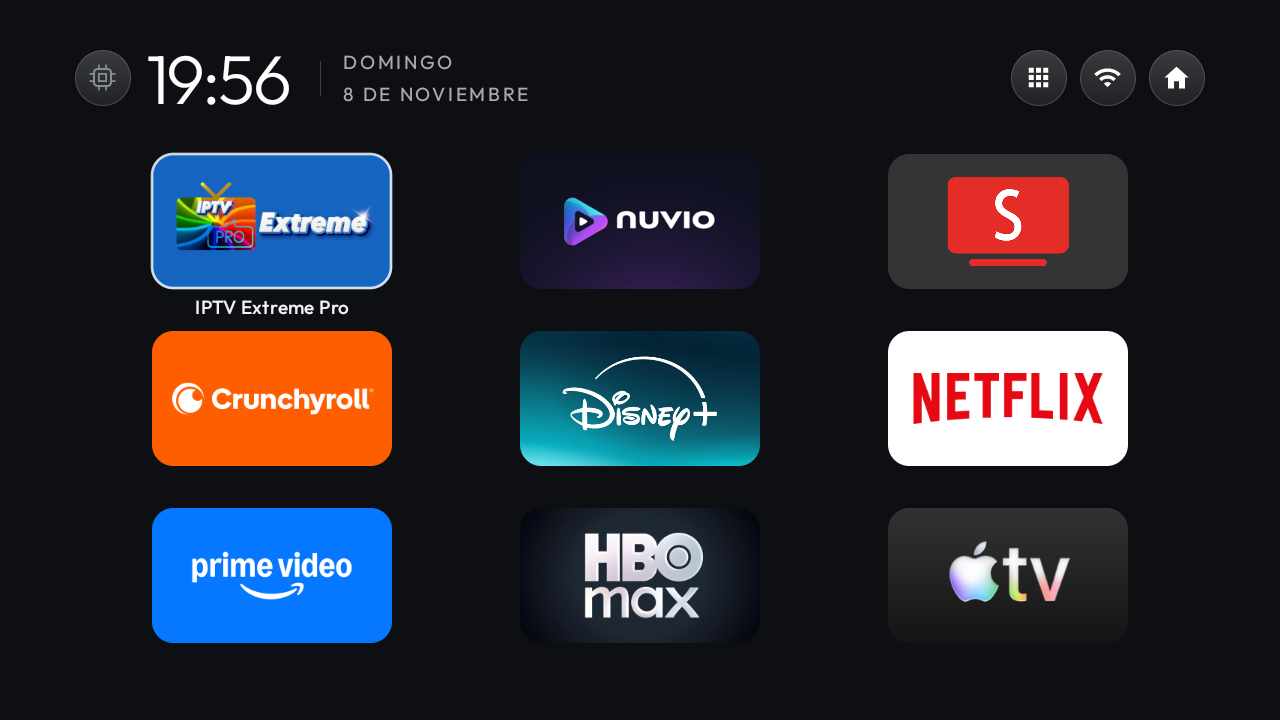
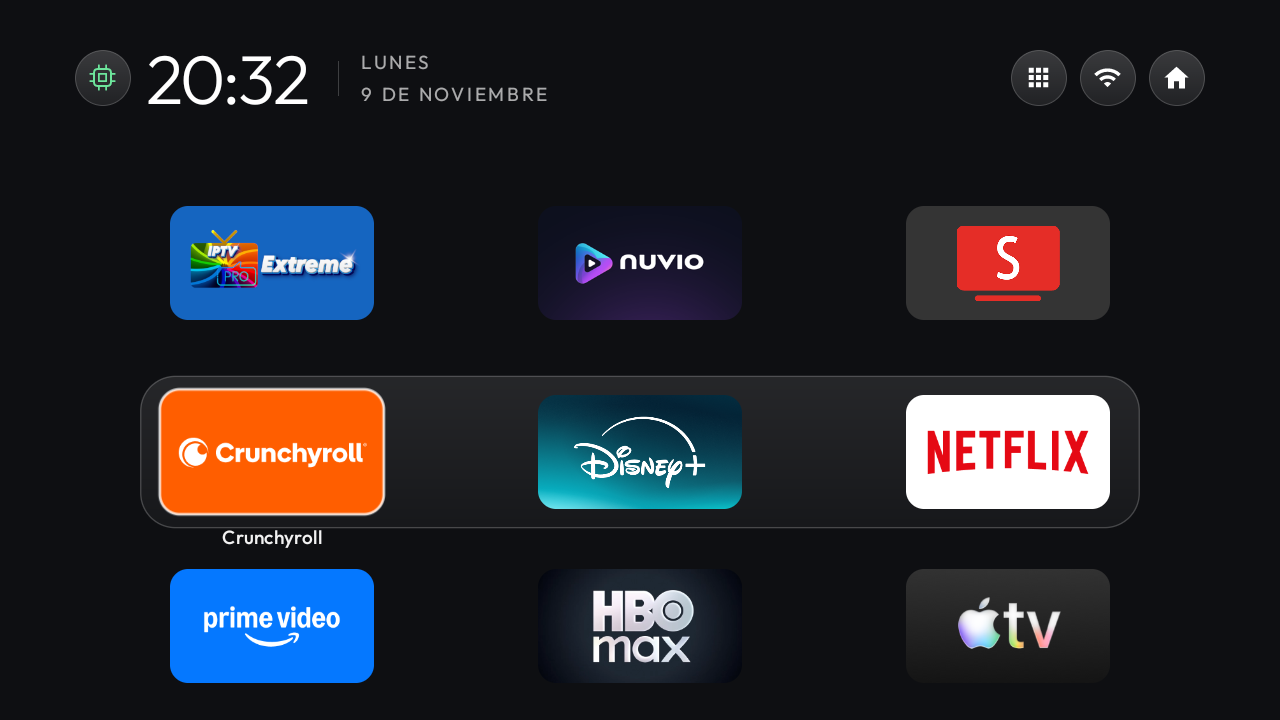
Documenta Streamer y Chromecast y actualiza el perfil Wanbo

diff --git a/perfiles/wanbo-cube-1/README.md b/perfiles/wanbo-cube-1/README.md
@@ -4,9 +4,11 @@ Perfil ligero de CleanYourTV para el proyector Wanbo Cube 1. La [ficha de Wanbo]
 
 La unidad identificada usa una plataforma Amlogic de Skyworth, producto `HP4703-Skyworth`, dispositivo `BOS`. Tiene 1 GB de RAM, GPU Mali-G31, Android TV 11 de 32 bits (API 30) y salida de 1280 × 720. La compilación observada es `RTT0.210829.002.P2.1.6_20240930`. Comprueba estos datos antes de reutilizar los ajustes en otro proyector.
 
-El [tema](config.json) usa una cuadrícula compacta, un borde fijo para el foco y el cajón de apps junto al Wi-Fi. Apaga las animaciones del launcher, el fondo de imagen, el resplandor y los módulos. AIDA64 y Play Store están en el cajón. El firmware probado deja la entrada HDMI fuera del menú de Android. Se selecciona con el mando del proyector.
+El [tema actualizado](config.json) muestra tres filas y una banda de cristal que se desplaza a la fila seleccionada. Usa animaciones básicas y mantiene apagados los efectos avanzados, el fondo de imagen, el resplandor y los módulos. El cajón queda a la izquierda del Wi-Fi y reúne Button Mapper, ObtainX, AIDA64 y Play Store. Las nueve apps de Inicio no se duplican en el cajón. El acceso de Ajustes del proyector se mantiene en el mando.
 
-![CleanYourTV con nueve aplicaciones en el Wanbo Cube 1](inicio.png)
+![Captura del Wanbo Cube 1 con la banda de cristal en la segunda fila de CleanYourTV](inicio.png)
+
+La captura corresponde al perfil visual probado en Android 14. Para que se vea el desplazamiento de la banda en esta unidad, se dejó `animator_duration_scale` en `0.5`. Los efectos avanzados siguen desactivados.
 
 | Fila | Izquierda | Centro | Derecha |
 | --- | --- | --- | --- |
@@ -35,7 +37,7 @@ adb -s "<dispositivo>" shell pm list packages -d --user 0
 1. Guarda el estado inicial fuera del repositorio. Mide la apertura de Inicio y de una app de prueba, la RAM disponible y el espacio libre. Aplica el tema y repite las mediciones en las mismas condiciones.
 2. Instala CleanYourTV y aplica este tema con la [guía del proyecto](../../README.md#instalar-el-launcher-y-el-tema). Prueba CleanYourTV como app antes de asignarlo al botón Inicio. Comprueba el mando, el acceso a ajustes, el enfoque, la corrección trapezoidal, HDMI, Wi-Fi, audio y la reproducción protegida.
 3. Revisa las apps opcionales y sus procesos en el firmware detectado. Registra el estado original de cada paquete y comprueba el equipo tras cada cambio. Consulta la [guía de reversión](../../INSTALACION-AVANZADA.md).
-4. Comprueba el arranque completo. El perfil de este proyector deja el monitor de reposo apagado para evitar un proceso adicional en segundo plano.
+4. Comprueba el arranque completo. En la unidad actualizada a Android 14 se verificó que el chip puede reactivar el monitor de reposo y quedar verde. El monitor es opcional y se reactiva después de un reinicio completo si lo necesitas.
 
 ## Cambios probados
 
@@ -56,7 +58,7 @@ Tras probar el nuevo Inicio, se quitaron para el usuario 0 los paquetes de la ta
 
 Para recuperar una app de sistema, ejecuta `adb -s "<dispositivo>" shell cmd package install-existing --user 0 <paquete>` y `adb -s "<dispositivo>" shell pm default-state --user 0 <paquete>`. Para restaurar el Inicio original, recupera primero el launcher y sus recomendaciones, luego selecciona `com.google.android.tvlauncher/.MainActivity`. Downloader se puede reinstalar desde Play Store. El asistente de configuración, Play Services, el receptor Cast, el emparejamiento Bluetooth y los servicios del proyector se dejaron habilitados.
 
-Las escalas `window_animation_scale`, `transition_animation_scale` y `animator_duration_scale` pasaron de 0,5 a 0. El salvapantallas de Android se desactivó con `settings put secure screensaver_enabled 0`. Guarda tus valores originales con `settings get` antes de aplicar estos cambios para poder recuperarlos.
+Durante la medición inicial, las tres escalas de animación pasaron de 0,5 a 0. En el perfil visual posterior se recuperó `animator_duration_scale=0.5` y se conservaron las transiciones de ventanas y actividades en 0. El salvapantallas de Android se desactivó con `settings put secure screensaver_enabled 0`. Guarda tus valores originales con `settings get` antes de aplicar estos cambios para poder recuperarlos.
 
 ## Mantener la pantalla encendida
 

diff --git a/perfiles/chromecast-google-tv-4k/README.md b/perfiles/chromecast-google-tv-4k/README.md
@@ -1,0 +1,29 @@
+# Chromecast con Google TV (4K)
+
+La unidad de prueba se identificó como `sabrina` y ejecutaba Android 14, compilación `UTTC.250917.004.14193937`. Google indica 2 GB de RAM, 8 GB de almacenamiento, salida hasta 4K y Wi-Fi ac. [Comparativa oficial de Google](https://store.google.com/es/magazine/google_tv_streamer_compare?hl=es)
+
+## Configuración probada
+
+Se instaló la misma compilación de CleanYourTV que en el [Google TV Streamer](../google-tv-streamer-4k/README.md) y se verificó el tema de tres filas. El [tema reutilizable](../../config.json) permite elegir las apps de Inicio y reservar el cajón para utilidades como AIDA64 y X-plore.
+
+En este firmware se verificó que CleanYourTV resolvía Inicio tras el cambio al launcher nativo. La operación requirió comprobar primero la red Wi-Fi guardada y deshabilitar el Inicio original y SetupWraith. Aplica ese cambio solo tras probar el launcher, el mando y los servicios que utilices. Netflix permaneció disponible. Cast puede verse afectado tras el reinicio y merece una prueba aparte si lo usas. [Instalación y reversión](../../INSTALACION-AVANZADA.md)
+
+Se desactivaron para el usuario 0 Feedback, Health Connect, AdServices, Downloader, Play Juegos y Play Películas en la unidad probada. La lista es un registro de la prueba. Comprueba qué paquetes existen y guarda su estado antes de aplicar cambios en otro equipo.
+
+## Mediciones
+
+| Medida con AIDA64 2.26 y CleanYourTV | Resultado |
+| --- | ---: |
+| Apertura de AIDA64 en frío, mediana de 5 | 723 ms |
+| Vuelta de AIDA64 a Inicio, mediana de 5 | 146 ms |
+| Apertura de Inicio en frío, mediana de 3 | 595 ms |
+| RAM disponible al tomar la muestra | 878.600 KiB |
+| Espacio libre en `/data` al tomar la muestra | 815 MiB aprox. |
+
+Los tiempos son `WaitTime` de Android. Las vueltas a Inicio fueron 1041, 116, 146, 136 y 218 ms. La muestra lenta quedó reflejada para que la mediana no oculte la variación observada. La [ficha del Streamer](../google-tv-streamer-4k/README.md#mediciones) recoge las mismas pruebas en ese dispositivo.
+
+## Reposo, reinicio y ObtainX
+
+Se probó el reinicio y el chip de limpieza. En la unidad probada, la depuración inalámbrica se desactivó después de reiniciar y hubo que volver a encenderla con el dispositivo en la Wi-Fi correcta. Para preparar el monitor, usa el modo `--experimental` del [procedimiento de reposo](../../README.md#activar-la-limpieza-en-reposo) y autoriza al propio dispositivo cuando el chip lo solicite.
+
+Se añadieron en ObtainX las fuentes de Nuvio, SmartTube e IPTV Extreme Pro, con comprobaciones cada seis horas. Android registró el trabajo en segundo plano. La configuración se verificó antes de que hubiera una nueva versión que permitiera probar el siguiente ciclo de instalación.

diff --git a/perfiles/google-tv-streamer-4k/README.md b/perfiles/google-tv-streamer-4k/README.md
@@ -1,0 +1,29 @@
+# Google TV Streamer (4K)
+
+La unidad de prueba se identificó como `kirkwood` y ejecutaba Android 14, compilación `UTTK.260317.003`. Google especifica 4 GB de RAM, 32 GB de almacenamiento, salida hasta 4K HDR a 60 Hz, Wi-Fi ac y Ethernet gigabit. [Ficha de Google](https://store.google.com/es/product/google_tv_streamer_specs?hl=es)
+
+![Inicio de CleanYourTV en el Google TV Streamer con el cajón, las tres filas y la banda de cristal](../../despues.png)
+
+## Configuración probada
+
+Se usó el [tema de tres columnas](../../config.json) con la banda de cristal siguiendo la fila seleccionada, el cajón a la izquierda del Wi-Fi y el chip de limpieza junto al reloj. AIDA64, X-plore y Button Mapper se dejaron como utilidades. Se comprobó Inicio nativo con el mando, el volumen y los accesos habituales.
+
+Para repetir la instalación, sigue la [guía del launcher y del tema](../../README.md#instalar-el-launcher-y-el-tema). El cambio a Inicio nativo en el firmware probado incluyó desactivar el launcher de Google y SetupWraith. Es una operación opcional: guarda el estado inicial, comprueba quién creó la red Wi-Fi y verifica Cast si lo utilizas. La [guía de reversión](../../INSTALACION-AVANZADA.md) explica cómo restaurar el Inicio original y los paquetes cambiados.
+
+## Mediciones
+
+| Medida con AIDA64 2.26 y CleanYourTV | Resultado |
+| --- | ---: |
+| Apertura de AIDA64 en frío, mediana de 5 | 659 ms |
+| Vuelta de AIDA64 a Inicio, mediana de 5 | 202 ms |
+| Apertura de Inicio en frío, mediana de 3 | 568 ms |
+| RAM disponible al tomar la muestra | 1.873.020 KiB |
+| Espacio libre en `/data` al tomar la muestra | 20 GiB aprox. |
+
+Los tiempos son `WaitTime` de Android en una sesión de comparación con el [Chromecast 4K](../chromecast-google-tv-4k/README.md). La memoria y el espacio libre dependen de las apps instaladas y abiertas. Hay otra sesión en [MEDICIONES.md](../../MEDICIONES.md) que compara revisiones del launcher y registra los tiempos por fotograma.
+
+## Reposo y actualización de apps
+
+Tras un reinicio completo, el chip gris permitió reactivar el monitor desde el propio Streamer. En el siguiente reposo se cerraron cinco apps en caché y la RAM disponible aumentó aproximadamente 13 MB. El aviso apareció durante cinco segundos. [Captura del aviso](../../aviso.png)
+
+Se instaló ObtainX con comprobaciones cada seis horas y se añadieron las fuentes de Nuvio, SmartTube e IPTV Extreme Pro. Se comprobó que Android registró el trabajo en segundo plano. La instalación automática de una futura actualización puede depender del firmware y de la confirmación que solicite Android.

diff --git a/README.md b/README.md
@@ -23,9 +23,9 @@ La imagen del Inicio original es una referencia oficial de Google TV. [Fuente de
 
 | Dispositivo | Recursos | Estado |
 | --- | --- | --- |
-| Google TV Streamer (4K), `kirkwood` | 4 GB de RAM, 32 GB de almacenamiento | Probado en Android 14, compilación `UTTK.260317.003`, con reinicio completo, reactivación local, reposo y aviso. |
-| Chromecast con Google TV (4K), `sabrina` | 2 GB de RAM, 8 GB de almacenamiento | Probado en Android 14, compilación `UTTC.250917.004`, con reinicio, reactivación del chip y aviso al salir de reposo. El firmware necesitó reactivar la depuración inalámbrica tras reiniciar. |
-| Wanbo Cube 1, `BOS` | 1 GB de RAM, Mali-G31, 720p | [Tema ligero y guía de diagnóstico](perfiles/wanbo-cube-1/README.md) para `HP4703-Skyworth`, comprobado antes y después de actualizar de Android 11 a 14. |
+| [Google TV Streamer (4K), `kirkwood`](perfiles/google-tv-streamer-4k/README.md) | 4 GB de RAM, 32 GB de almacenamiento | Probado en Android 14, compilación `UTTK.260317.003`, con reinicio completo, reactivación local, reposo y aviso. |
+| [Chromecast con Google TV (4K), `sabrina`](perfiles/chromecast-google-tv-4k/README.md) | 2 GB de RAM, 8 GB de almacenamiento | Probado en Android 14, compilación `UTTC.250917.004`, con reinicio, reactivación del chip y aviso al salir de reposo. El firmware necesitó reactivar la depuración inalámbrica tras reiniciar. |
+| [Wanbo Cube 1, `BOS`](perfiles/wanbo-cube-1/README.md) | 1 GB de RAM, Mali-G31, 720p | Perfil para `HP4703-Skyworth`, comprobado antes y después de actualizar de Android 11 a 14. La ficha muestra el Inicio actual con banda de cristal. |
 | Philips UHD 2020/2021, `PH0M_EA_T32` | 1,32 GiB de RAM utilizables, MediaTek `m7332`, Mali-G52 | [Perfil Philips](perfiles/philips-ph0m-ea-t32/README.md) probado en Android TV 11, compilación `200715`, con dos filas de cuatro, inicio tras reinicio y Shizuku para ObtainX. |
 
 [Ficha del Streamer](https://store.google.com/product/google_tv_streamer_specs) · [Ficha del Chromecast](https://support.google.com/chromecast/answer/12578818) · [Desmontaje del Chromecast 4K](https://www.techinsights.com/products/ddt-2010-818) · [Notas de firmware](https://support.google.com/chromecast/answer/7124014)
